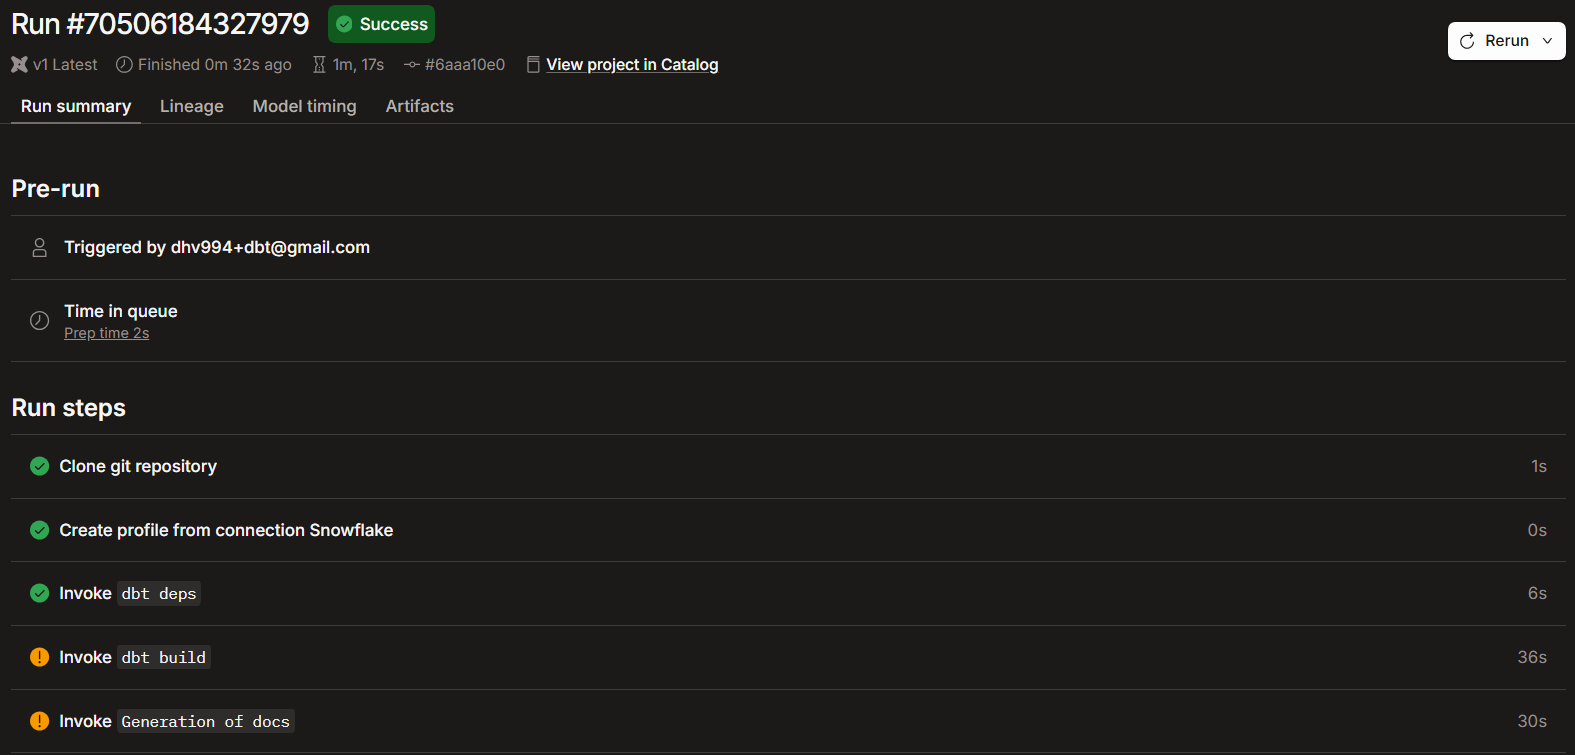
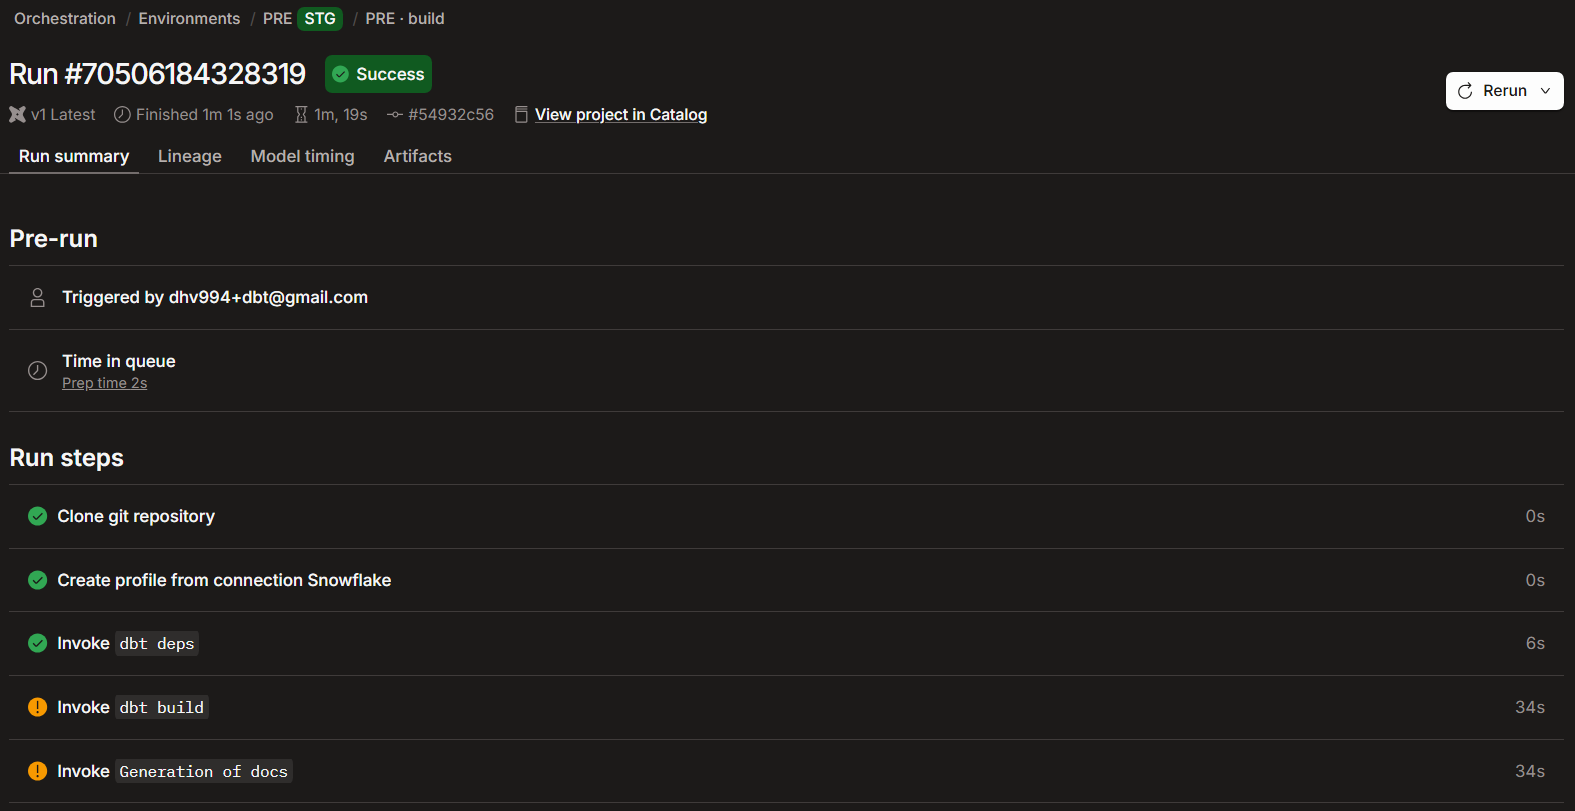
docs: add schema evidence 37-38 and log the empty macro incident
Replace the PRE and PRO job screenshots with the ones taken after the fix, add the Snowflake schema listings and record the incident and orchestration ideas in D-067.

diff --git a/docs/evidence/README.md b/docs/evidence/README.md
@@ -34,12 +34,14 @@
 | 27 | `snowflake/27_snowflake_pre_roles.png` | Los 5 roles `MB_` tras ejecutar `03_pre_environment.sql`, con `PRE_MB_TRANSFORM_ROLE` (D-067) | 2026-11-23 |
 | 28 | `snowflake/28_snowflake_pre_databases.png` | Las 7 bases `_MB_`: bronce, y silver y gold de DEV, PRE y PRO (D-067) | 2026-11-23 |
 | 29 | `dbt/29_dbt_cloud_environment_variables.png` | dbt Cloud: variables de entorno `DBT_ENV_NAME` (DEV por defecto, PRE en PRE, PRO en PRO) y `DBT_BRONZE_DB` (D-067) | 2026-11-23 |
-| 30 | `dbt/30_dbt_pre_test_warn_78_sale_date.png` | Job de PRE: el test `not_null` de `sale_date` avisa con 78 filas y las guarda en `PRE_MB_SILVER_DB.core_dbt_test__audit` (D-066) | 2026-11-23 |
-| 31 | `dbt/31_dbt_pre_job_success.png` | Job `PRE · build` en Success: clone, deps, `dbt build` (con aviso) y generación de docs | 2026-11-23 |
+| 30 | `dbt/30_dbt_pre_test_warn_78_sale_date.png` | Job de PRE (antes de arreglar el macro de esquemas; el esquema de auditoría aún era `core_dbt_test__audit`): el test `not_null` de `sale_date` avisa con 78 filas y las guarda en `PRE_MB_SILVER_DB.core_dbt_test__audit` (D-066) | 2026-11-23 |
+| 31 | `dbt/31_dbt_pre_job_success.png` | Job `PRE · build` en Success tras arreglar el macro de esquemas: clone, deps, `dbt build` (con aviso) y generación de docs | 2026-11-23 |
 | 32 | `dbt/32_dbt_pre_docs_unused_gold_warning.png` | Generación de docs en PRE: 4 modelos, 1 snapshot, 5 seeds, 5 tests; aviso esperado de que `gold` aún no tiene modelos | 2026-11-23 |
 | 33 | `dbt/33_dbt_cloud_extended_attributes_warning.png` | Aviso de dbt Cloud en las credenciales: no poner claves sensibles en *Extended attributes* (se ven en texto plano) | 2026-11-23 |
-| 34 | `dbt/34_dbt_pro_job_success.png` | Job `PRO · build` en Success sobre el entorno PRO (rama `main`) | 2026-11-23 |
-| 35 | `dbt/35_dbt_pro_test_warn_78_sale_date.png` | Job de PRO: mismo aviso de 78 filas, guardadas en `PRO_MB_SILVER_DB.core_dbt_test__audit` | 2026-11-23 |
+| 34 | `dbt/34_dbt_pro_job_success.png` | Job `PRO · build` en Success sobre el entorno PRO (rama `main`) tras arreglar el macro de esquemas | 2026-11-23 |
+| 35 | `dbt/35_dbt_pro_test_warn_78_sale_date.png` | Job de PRO (antes de arreglar el macro de esquemas, esquema antiguo `core_dbt_test__audit`): mismo aviso de 78 filas, guardadas en `PRO_MB_SILVER_DB.core_dbt_test__audit` | 2026-11-23 |
 | 36 | `dbt/36_dbt_pro_docs_unused_gold_warning.png` | Generación de docs en PRO: mismo aviso de `gold` sin modelos | 2026-11-23 |
+| 37 | `snowflake/37_snowflake_pre_schemas_duplicated_by_macro_bug.png` | `PRE_MB_SILVER_DB` con 12 esquemas: los limpios (`CORE`, `STAGING`, `REFERENCE`, `SNAPSHOTS`, `DBT_TEST__AUDIT`) y los 5 `CORE_*` antiguos que dejó el macro vacío | 2026-11-24 |
+| 38 | `snowflake/38_snowflake_pro_schemas_duplicated_by_macro_bug.png` | Lo mismo en `PRO_MB_SILVER_DB`: esquemas limpios y `CORE_*` antiguos pendientes de borrar | 2026-11-24 |
 
-Las capturas 01-02 y 05-08 cuentan dos anécdotas útiles para la presentación: un error real y cómo se diagnosticó y resolvió (usuario en mayúsculas; ficheros subidos sin carpeta). Las siguientes capturas (carga correcta, dbt, tests, alertas, Power BI) se añaden con el siguiente número (37 en adelante).
+Las capturas 01-02 y 05-08 cuentan dos anécdotas útiles para la presentación: un error real y cómo se diagnosticó y resolvió (usuario en mayúsculas; ficheros subidos sin carpeta). Las siguientes capturas (carga correcta, dbt, tests, alertas, Power BI) se añaden con el siguiente número (39 en adelante).

diff --git a/docs/es/decisions_log.md b/docs/es/decisions_log.md
@@ -458,3 +458,5 @@
 - **Ejecución verificada (2026-11-23)**: creados los entornos PRE (rama `pre`) y PRO (rama `main`) en dbt Cloud, cada uno con su rol, su base de datos y `DBT_ENV_NAME` propio, y un job `dbt build` por entorno (manual, con generación de docs, sin *source freshness*). Ambos terminan en Success con 78 filas de aviso en `not_null` de `sale_date` (D-066) y el aviso esperado de `gold` sin modelos. Evidencias 29-36.
 - **Source freshness desactivado (decisión del autor)**: las fuentes no declaran `loaded_at_field` ni umbral y la carga es manual por deltas, así que no aporta. En producción real con ingesta automática se activaría sobre `_loaded_at`.
 - **Seguridad: claves en dbt Cloud**: la clave privada key-pair solo va en el campo de credenciales (cifrado en reposo); dbt Cloud avisa de que *Extended attributes* se ve en texto plano, así que **no se usa para claves** (evidencia 33). Mejora posible: rotar la clave si se expone.
+- **Incidente del macro de esquemas (2026-11-24)**: el archivo `generate_schema_name` llegó a `develop`, `pre` y `main` **vacío y sin extensión `.sql`**, así que dbt lo ignoró en PRE y PRO y creó esquemas como `CORE_CORE` y `CORE_STAGING`. Detectado al revisar la rama; corregido con `generate_schema_name.sql` y reejecutados los jobs: ahora aparecen los esquemas limpios (evidencias 37-38). **Lecciones**: (1) comprobar que un archivo nuevo tiene extensión y contenido antes de comitear; (2) una captura puede parecer prueba sin serlo (el esquema `core_dbt_test__audit` era el comportamiento por defecto); (3) los esquemas equivocados se borran a mano.
+- **Mejoras de orquestación a mencionar (no implementadas)**: job de CI en cada PR con `dbt build --select state:modified+` (CI ligera), job programado diario en PRO y *source freshness* si la ingesta fuera automática.
